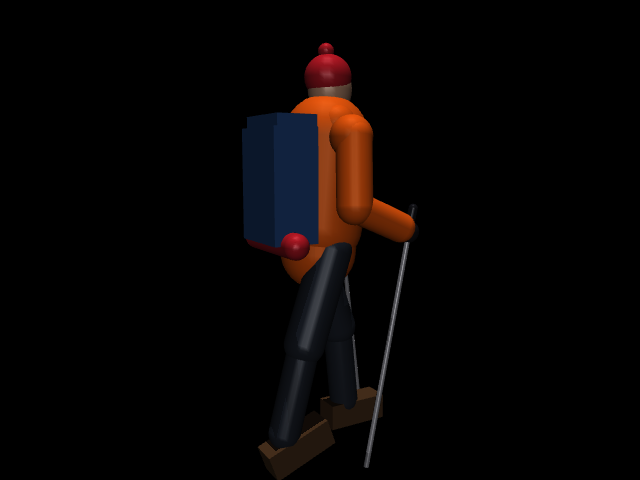
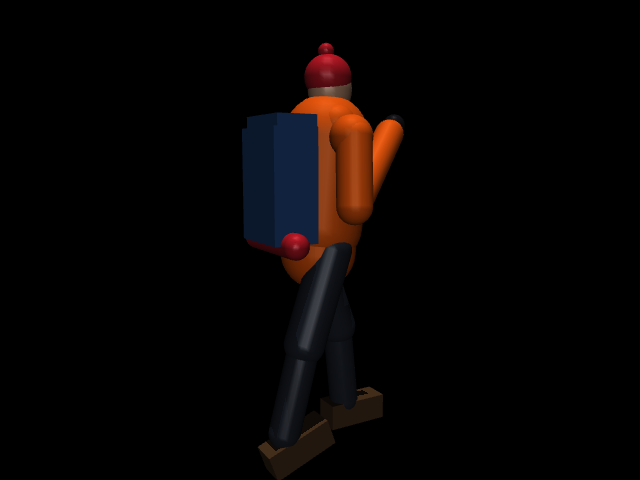
assets/humans: no poles -- hands on the fixed line
Claude-Session: https://claude.ai/code/session_01XymcVEGpe4sW7zWrP7N8mc

diff --git a/assets/humans/README.md b/assets/humans/README.md
@@ -1,6 +1,6 @@
 # Humans (for the detection gate)
 
-`human.xml` — a 1.75 m Himalayan hiker (down jacket, beanie, backpack, boots, trekking poles) from primitives on one **mocap** body. No physics, no
+`human.xml` — a 1.75 m Himalayan hiker (down jacket, beanie, backpack, boots, hands on the rope) from primitives on one **mocap** body. No physics, no
 collision: it exists to be *seen* by `app/safety/human_gate.py`, not walked into.
 
 - Place: `data.mocap_pos[model.body_mocapid[body_id]] = (x, y, z_ground)`.
